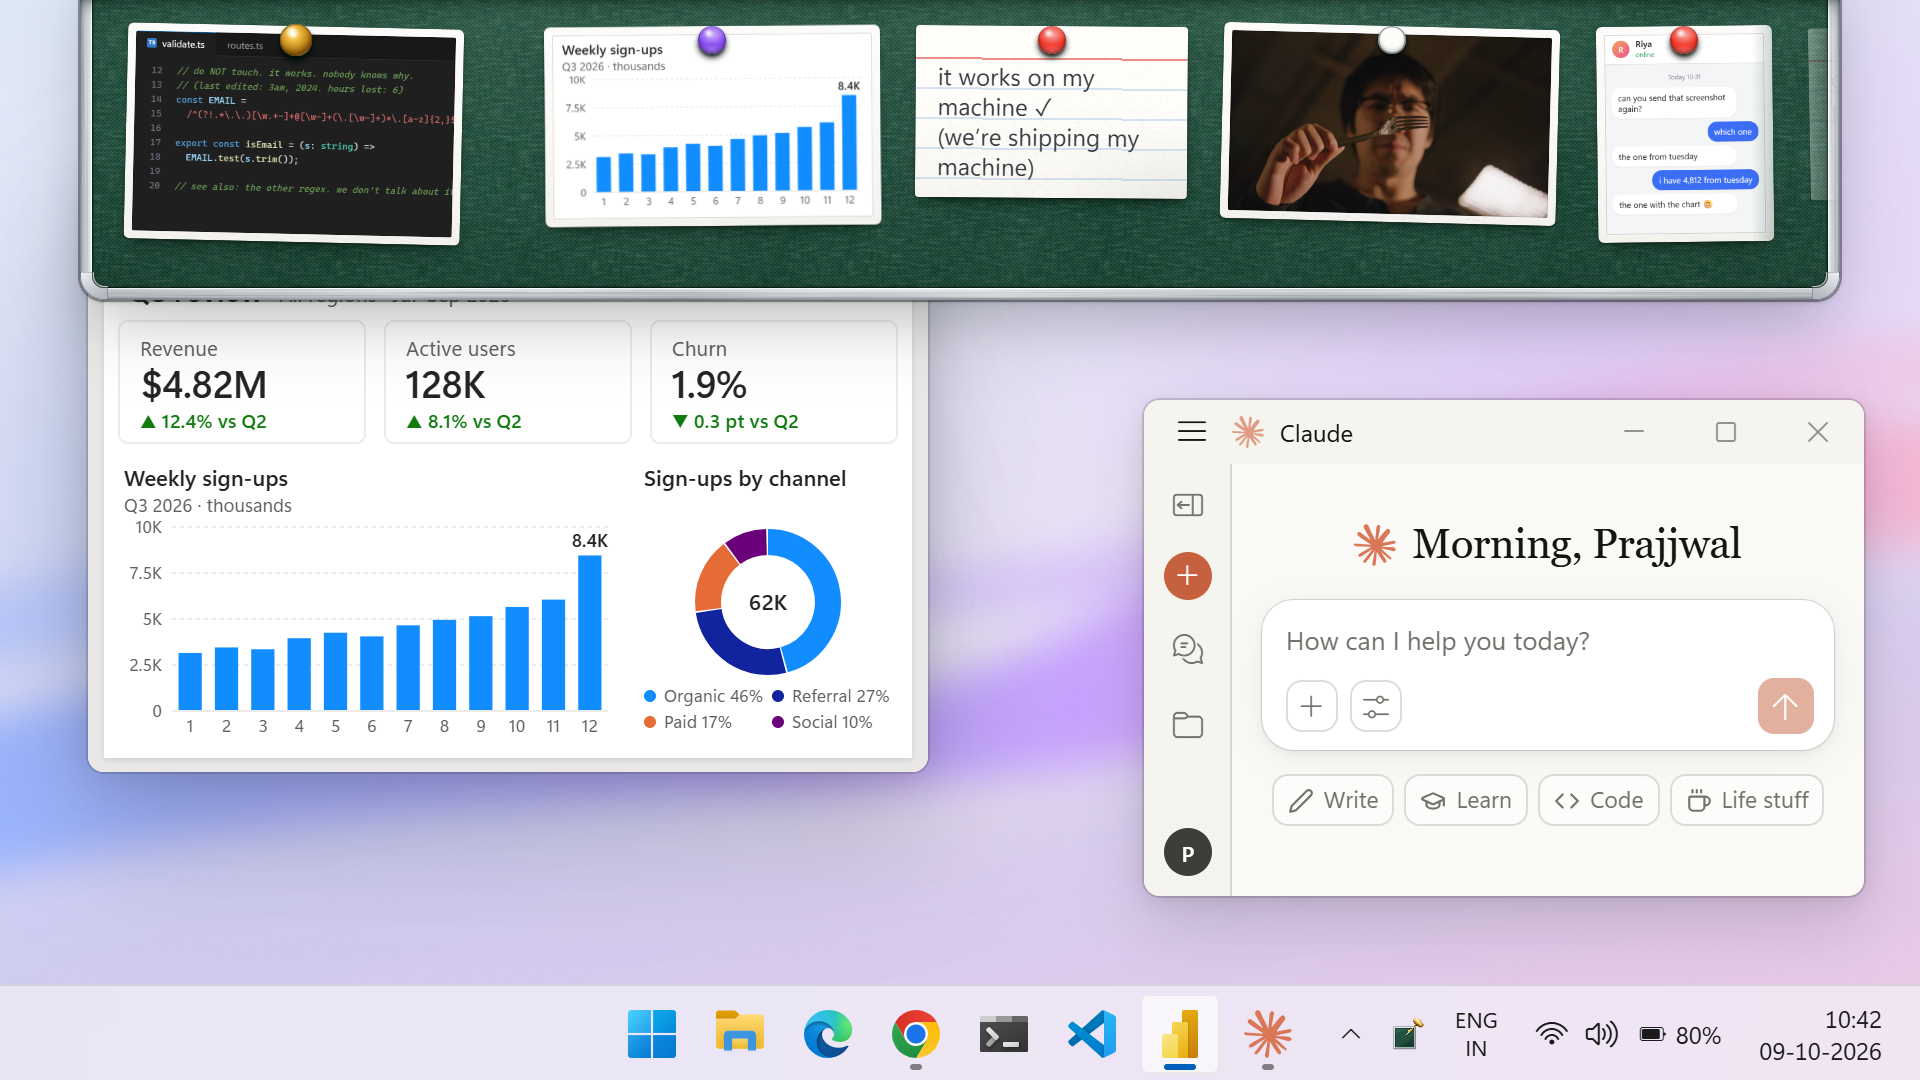
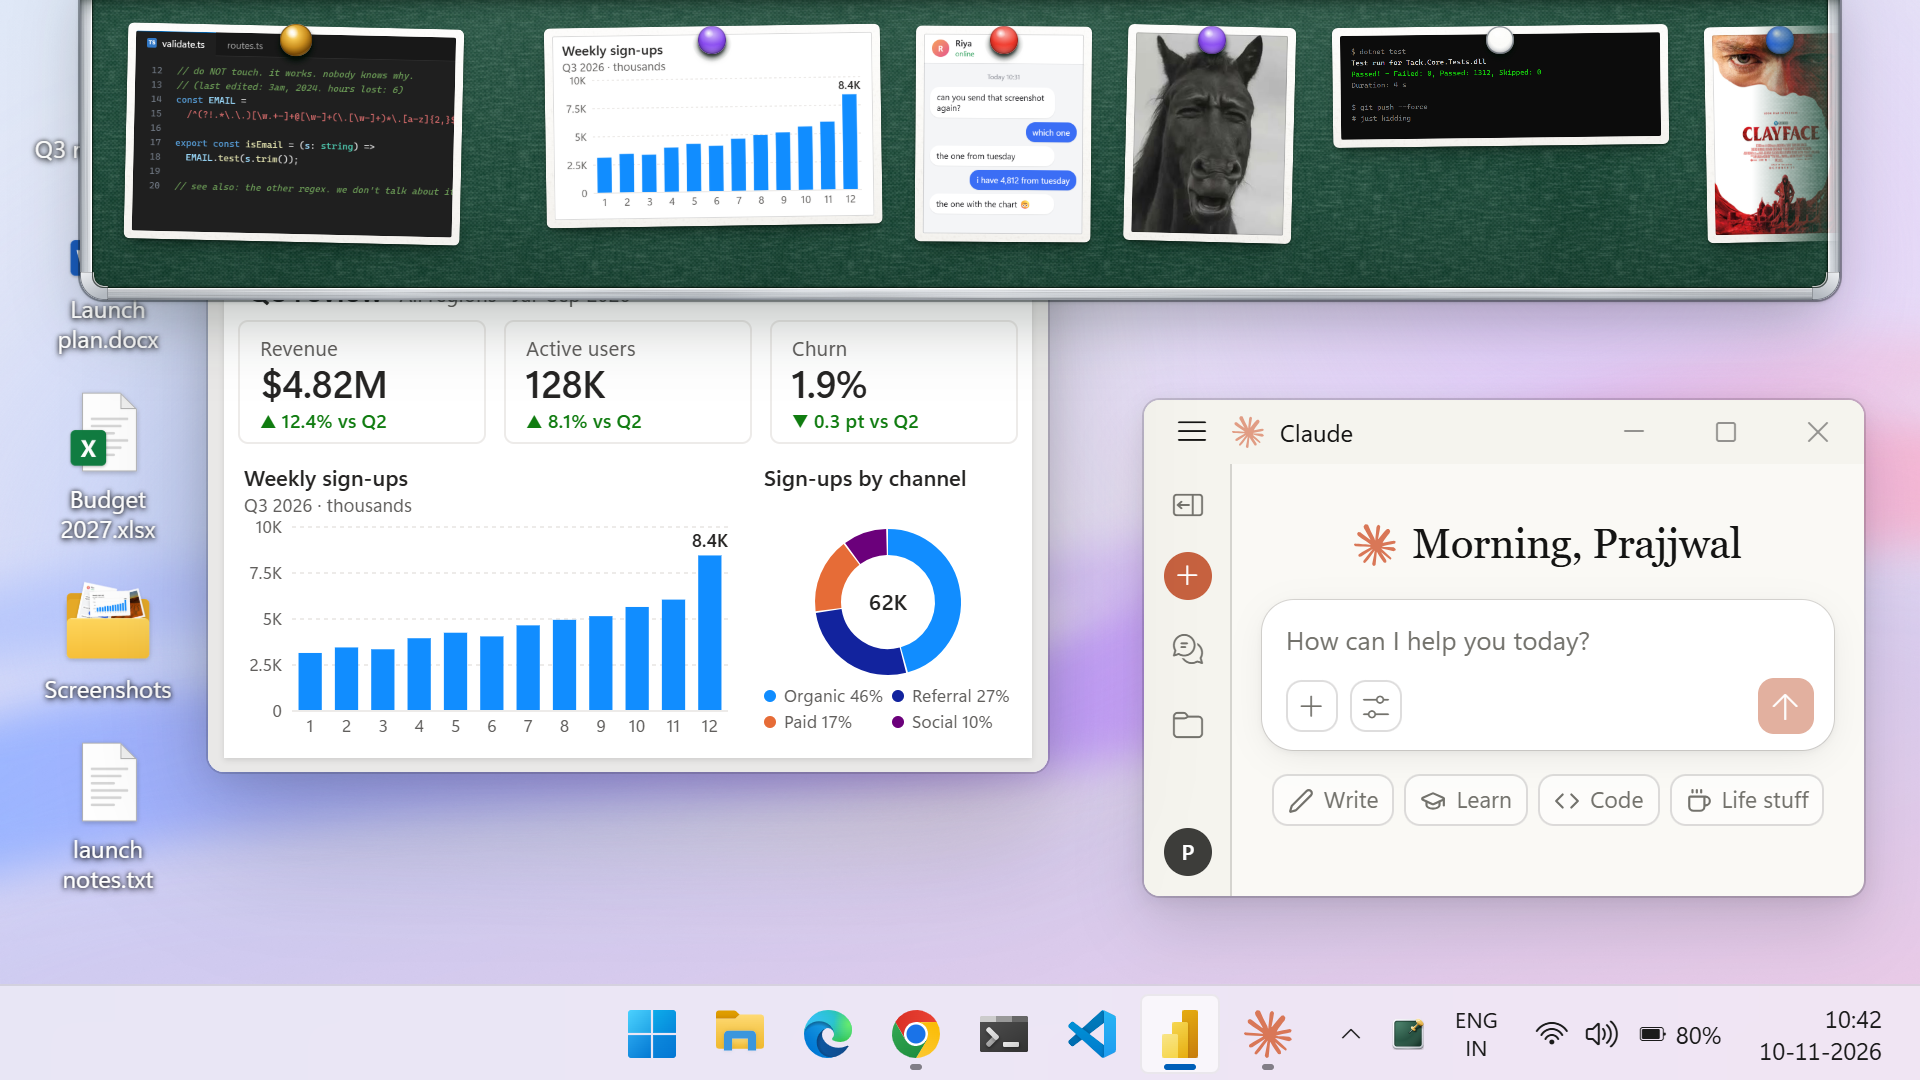
Show the 0.3 board in the README's pictures

diff --git a/README.md b/README.md
@@ -24,7 +24,7 @@ https://github.com/user-attachments/assets/15642841-2e5f-42ef-af62-7ab59b90bbc2
   tucked away it uses almost no CPU.
 
 <p align="center">
-  <img src="docs/assets/hero.png" width="880" alt="The Tack board at the top of a Windows desktop with code, a chart, a note, a video frame and a chat pinned on it">
+  <img src="docs/assets/hero.png" width="880" alt="The Tack board at the top of a Windows desktop with code, a chart, a chat, a terminal and a film poster pinned on it">
 </p>
 
 ## Your board, on your phone
@@ -40,7 +40,7 @@ through [NetBird](https://netbird.io), a free, open-source private network.
 3. Scan the QR code with your phone and click **Allow** on your PC.
 
 <p align="center">
-  <img src="docs/assets/phone.png" width="880" alt="The Tack on your phone window with its QR code beside a phone showing the same board in Chrome over 5G">
+  <img src="docs/assets/phone.png" width="880" alt="Tack's Use on your phone settings with a QR code, beside a phone showing the same board in Chrome over 5G">
 </p>
 
 Add it to your home screen and it's one tap from then on. Only devices you
